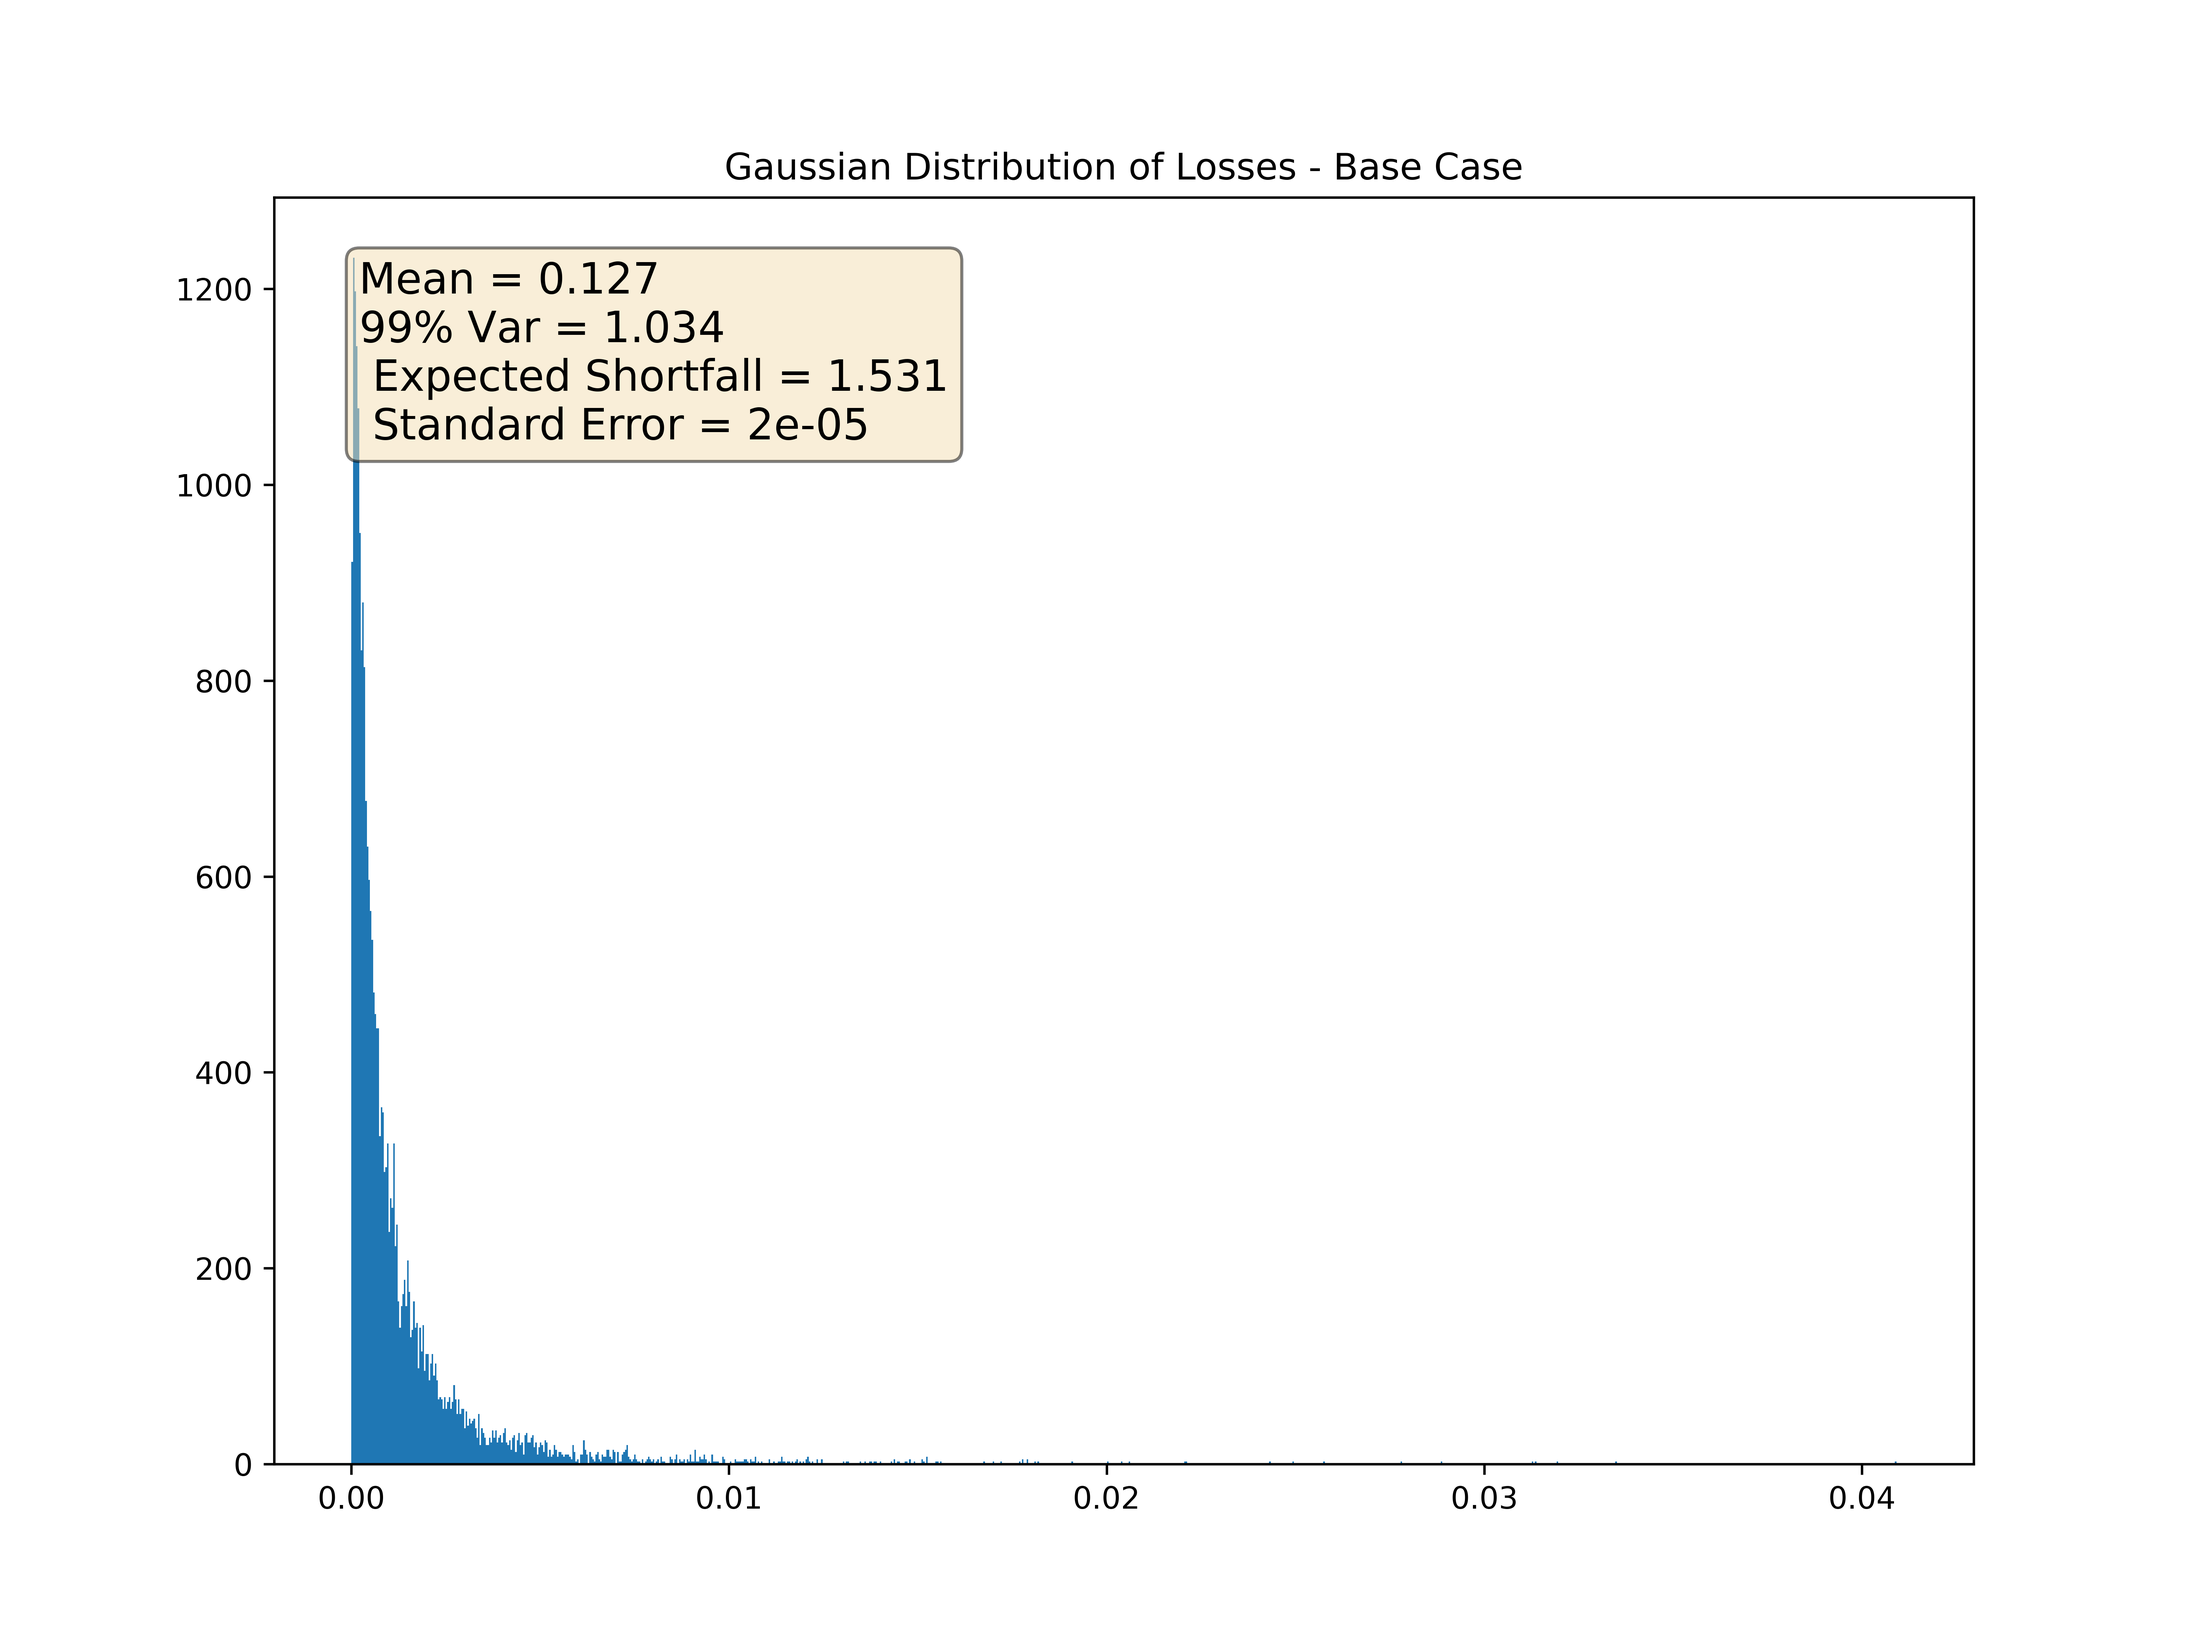
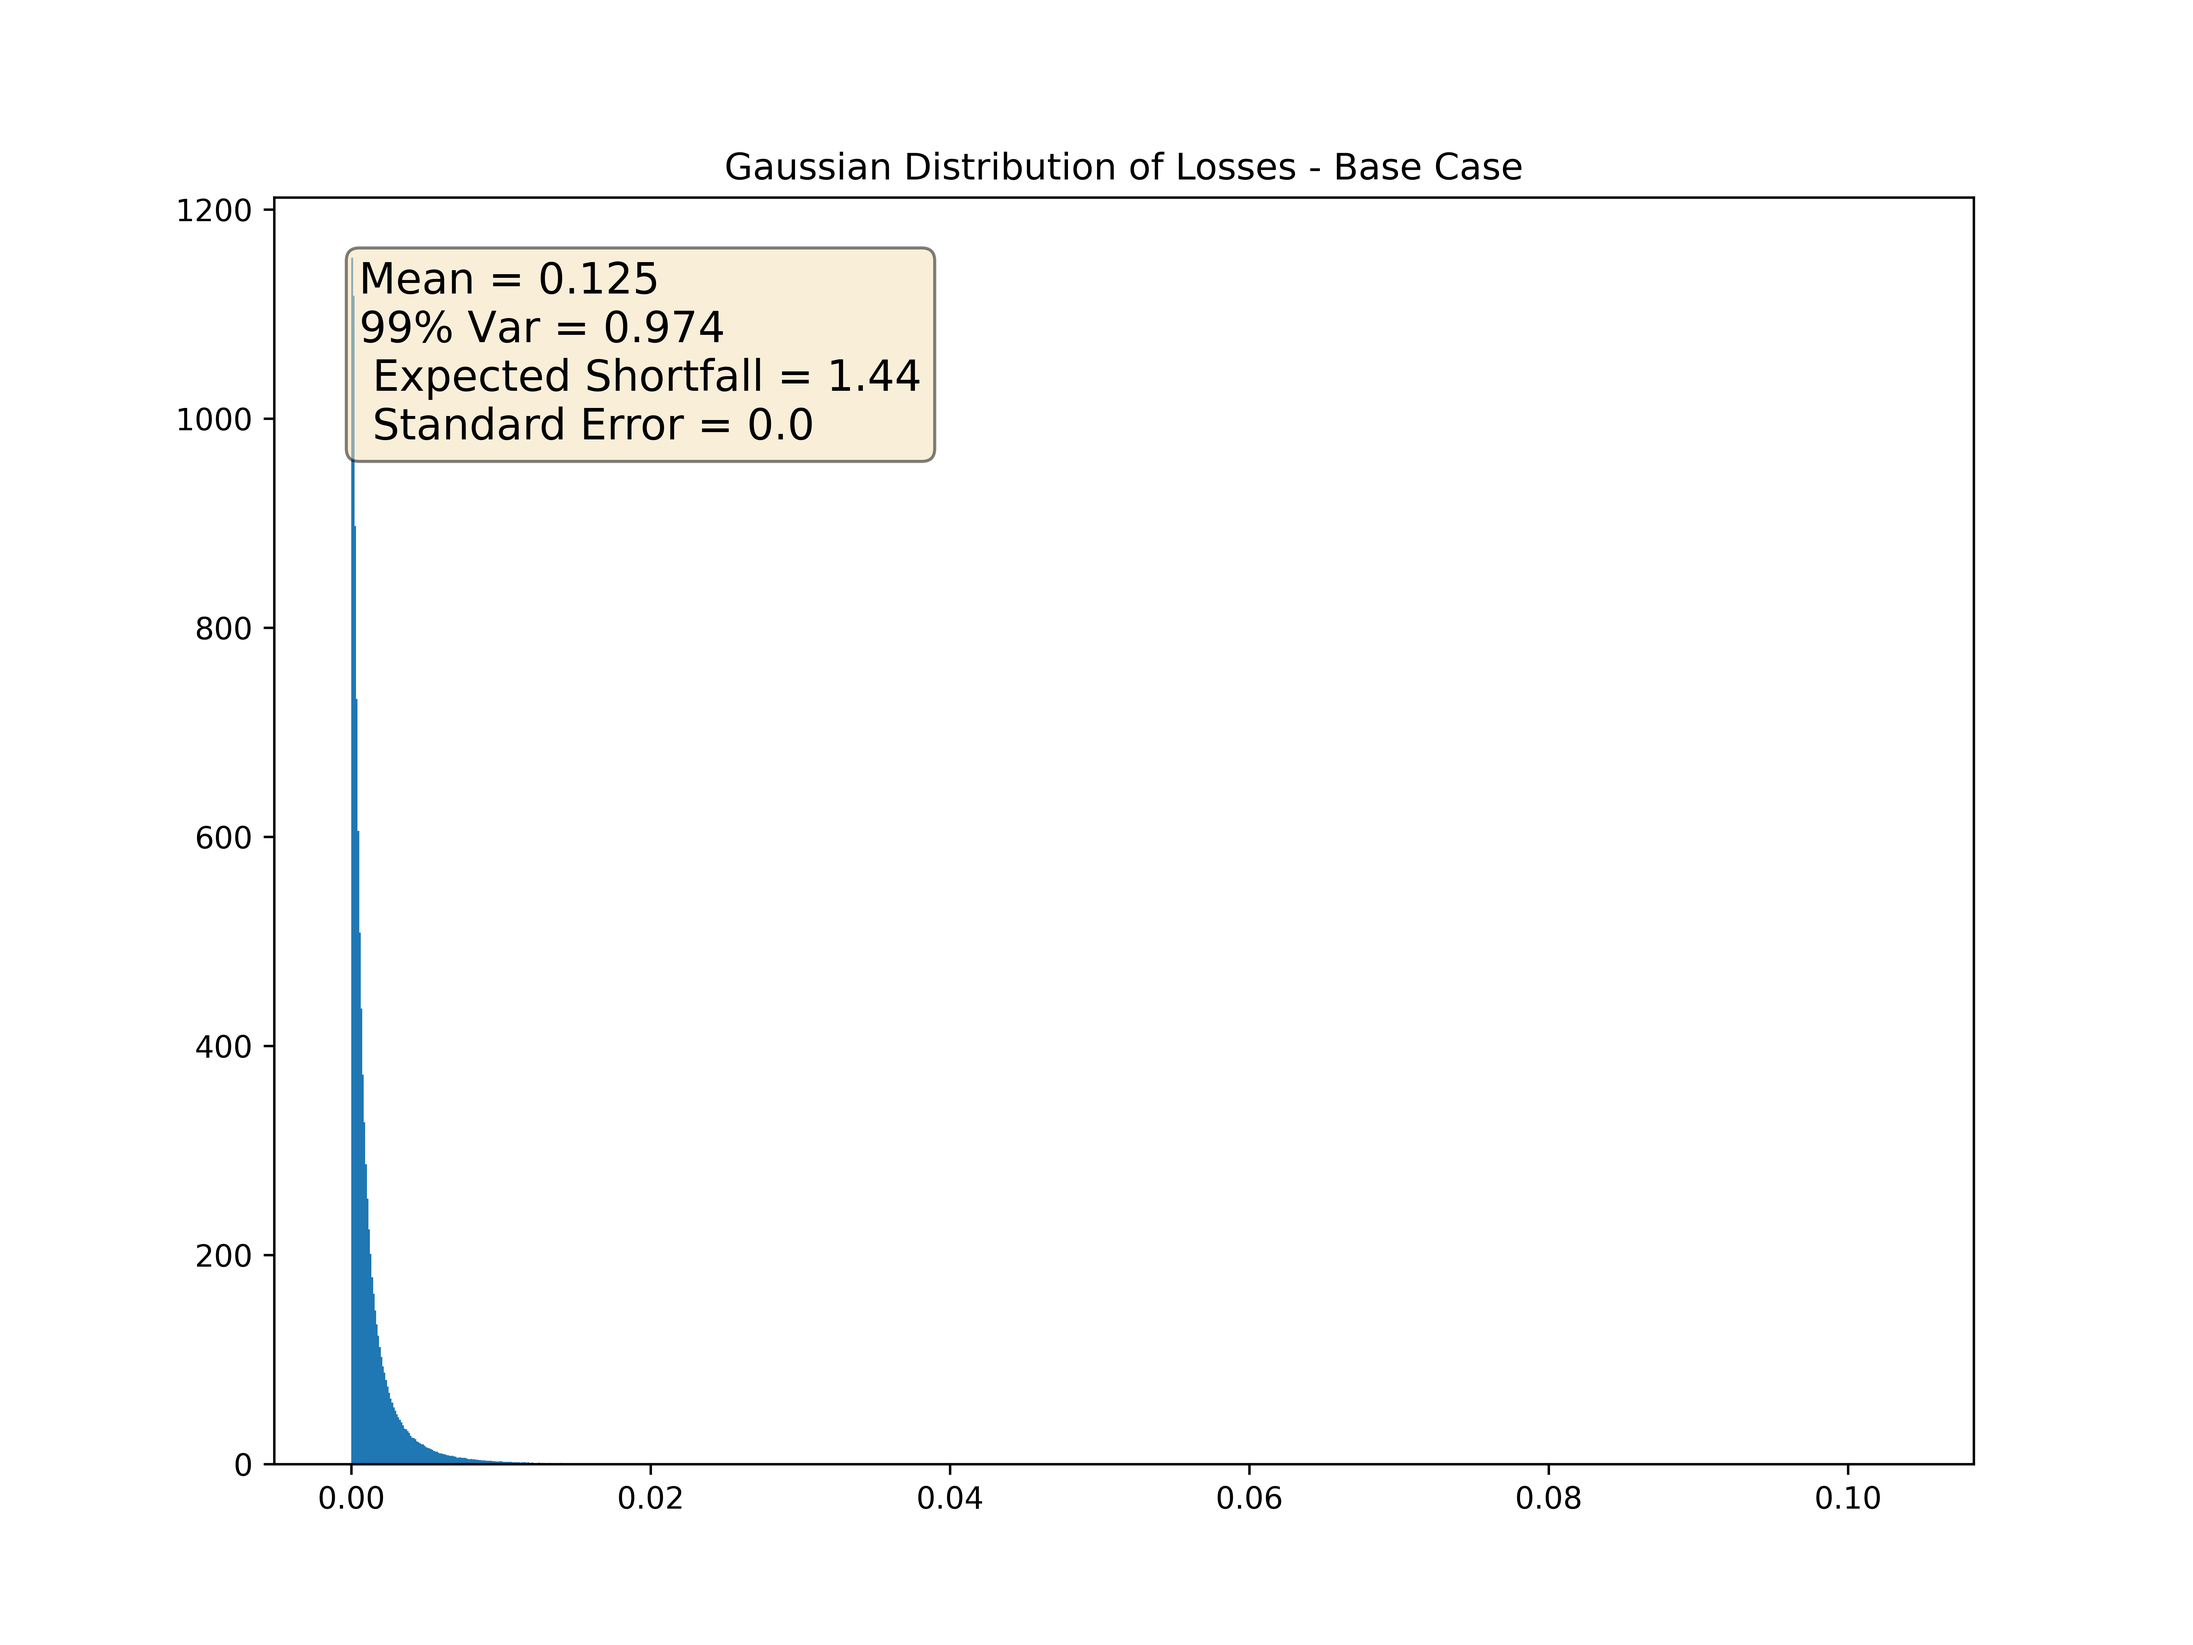
update

diff --git a/main.py b/main.py
@@ -6,7 +6,7 @@ import scipy.stats as stats
 import matplotlib.pyplot as plt
 import pandas as pd
 
-trials = 10000
+trials = 1000000
 
 all_data = df.get_data()
 
